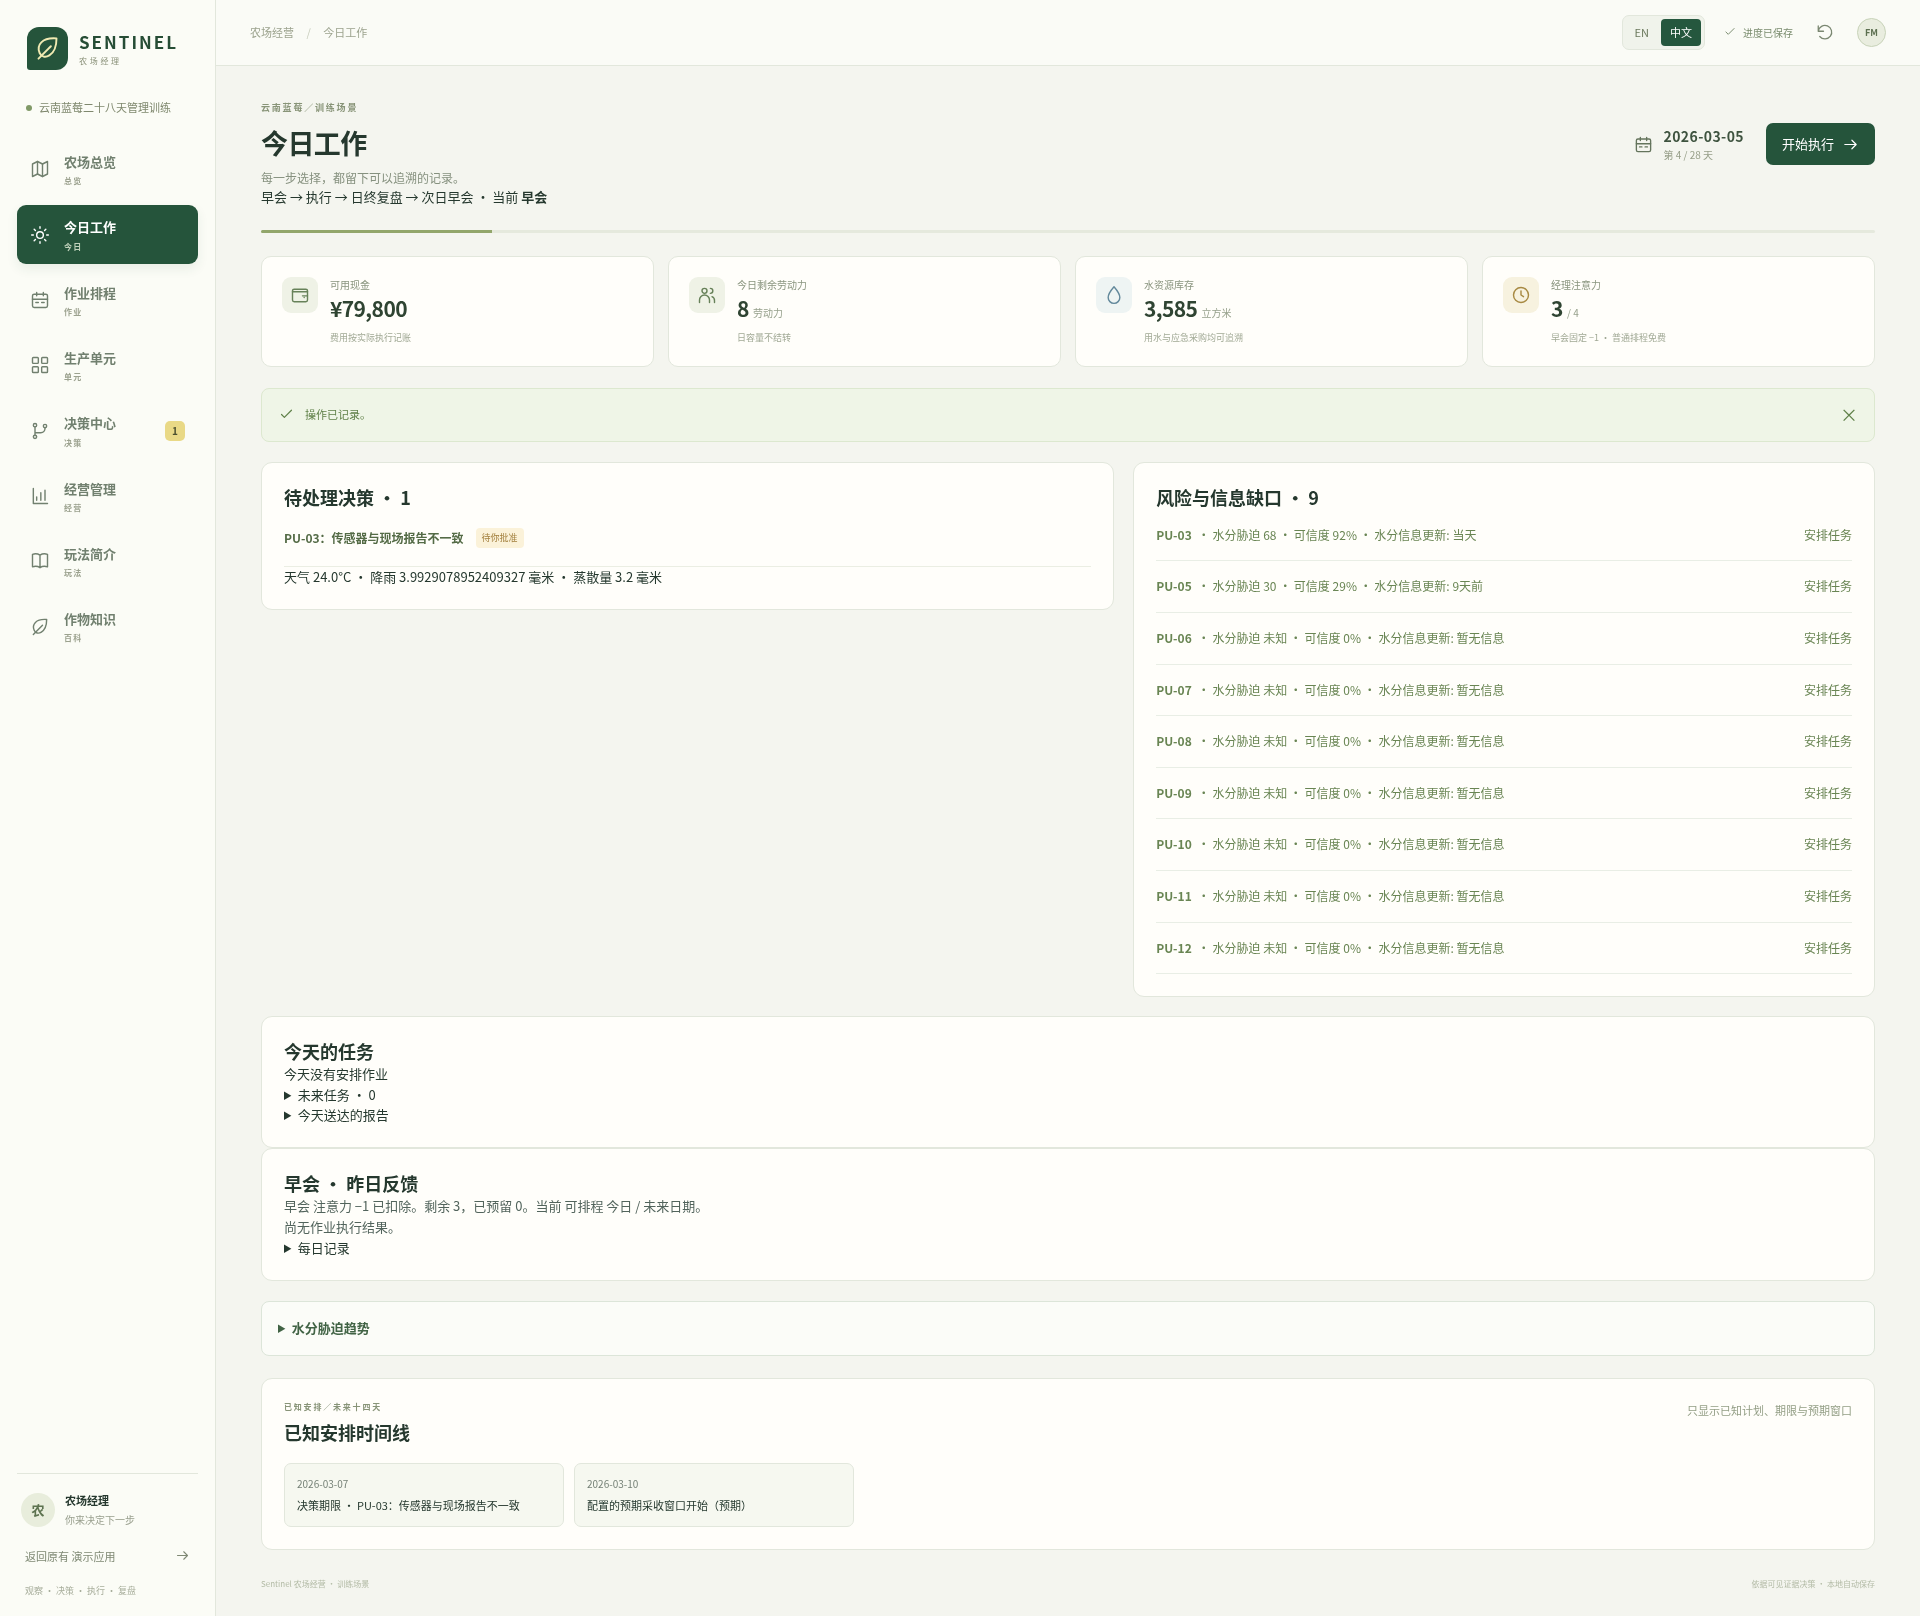
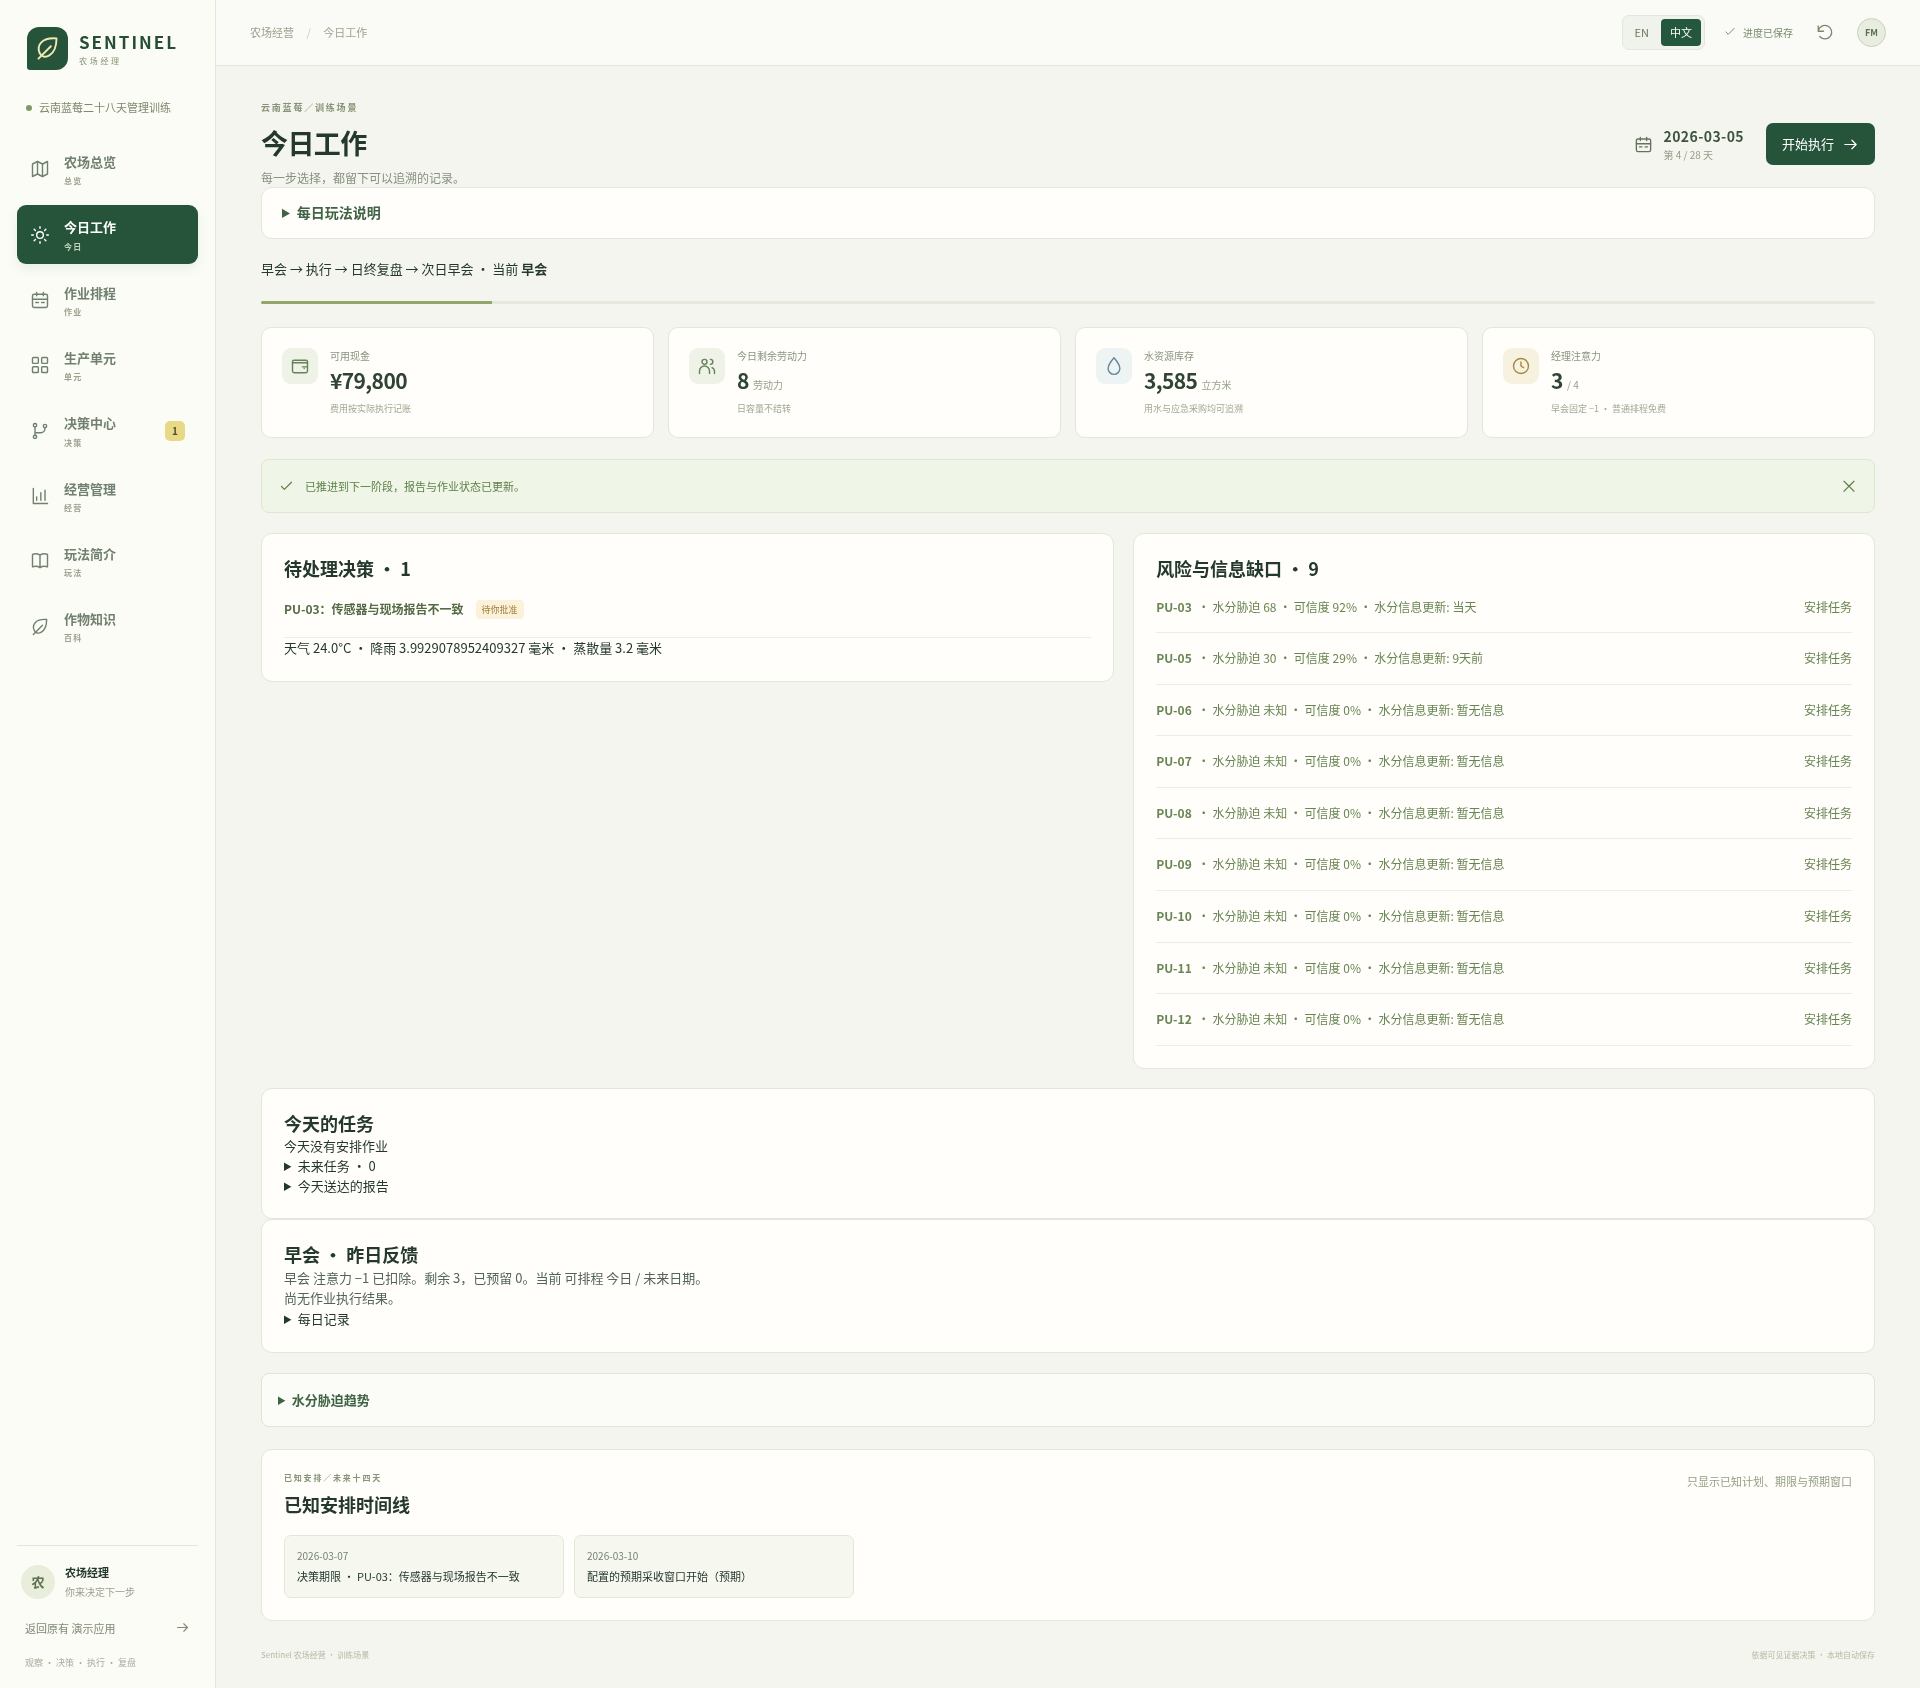
Show a collapsible daily guide only in Today

diff --git a/src/game/GameApp.jsx b/src/game/GameApp.jsx
@@ -352,7 +352,7 @@ function GameContent() {const { t, locale } = useGameLocale();
     </aside>
     <div className="fg-workspace"><header className="fg-topbar"><div className="fg-breadcrumb">{t("农场经营 ")}<span>{t("/")}</span> {t(currentTab.label)}</div><div className="fg-topbar-tools"><LanguageTabs /><span className={`fg-save-status fg-save-status--${storageStatus.state}`} data-testid="save-status" title={t(storageStatus.message)}><Glyph name={storageStatus.state === 'saved' ? 'check' : 'alert'} size={14} />{t(storageStatus.state === 'saved' ? '进度已保存' : storageStatus.state === 'memory' ? '仅本次会话保存' : '存档需要关注')}</span><button className="fg-icon-button" aria-label={t("重新开始")} data-testid="restart-open" onClick={() => setDialog('restart')}><Glyph name="reset" size={18} /></button><span className="fg-topbar-avatar">{t("FM")}</span></div></header>
       <main className="fg-main"><section className="fg-page-heading"><div><span className="fg-eyebrow">{t("YUNNAN BLUEBERRY / TRAINING SCENARIO")}</span><h1>{t(currentTab.label)}<span>{t(tab === 'map' ? '看见农场，做出有依据的选择。' : '每一步选择，都留下可以追溯的记录。')}</span></h1></div><div className="fg-time-control"><div className="fg-date"><Glyph name="calendar" size={19} /><div><strong data-testid="game-date">{t(view.currentDate)}</strong><small>{t("第 ")}{t(model.elapsedDays)}{t(" / ")}{t(model.totalDays)}{t(" 天")}{t(view.ended ? ' · 已结束' : '')}</small></div></div><button className="fg-button fg-button--primary" data-testid="advance-day" disabled={view.ended} onClick={() => run('executeDay')}>{t(view.ended ? '本轮已结束' : { morning: '开始 Execution', execution: '进入 End of Day', end_of_day: 'Next Morning' }[view.management.phase])}<Glyph name="arrow" size={17} /></button></div></section>
-      {t(!view.management.onboarded && <Onboarding run={run} />)}<div className="fg-phase-strip">{t("Morning Meeting → Execution → End of Day → Next Morning · 当前 ")}<b>{t(view.management.phase)}</b></div><div className="fg-season-progress" aria-label={t(`已完成 ${model.elapsedDays} / ${model.totalDays} 天`)}><span style={{ width: `${Math.min(100, model.elapsedDays / model.totalDays * 100)}%` }} /></div>
+      {tab === 'today' && <Onboarding key={`${view.currentDate}:${view.randomSeed}:${view.management.onboarded}`} onboarded={view.management.onboarded} onDismiss={() => controller.dismissOnboarding()} />}<div className="fg-phase-strip">{t("Morning Meeting → Execution → End of Day → Next Morning · 当前 ")}<b>{t(view.management.phase)}</b></div><div className="fg-season-progress" aria-label={t(`已完成 ${model.elapsedDays} / ${model.totalDays} 天`)}><span style={{ width: `${Math.min(100, model.elapsedDays / model.totalDays * 100)}%` }} /></div>
       <section className="fg-hud" aria-label={t("经营资源")}><article><span className="fg-stat-icon"><Glyph name="wallet" /></span><div><span>{t("可用现金")}</span><strong data-testid="cash" data-value={view.finance.cash}>{t(money(view.finance.cash))}</strong><small>{t("费用按实际执行记账")}</small></div></article><article><span className="fg-stat-icon"><Glyph name="people" /></span><div><span>{t("今日剩余 Labor")}</span><strong>{t(number(model.laborAvailable, 2))} <em>{t("Labor")}</em></strong><small>{t("日容量不结转")}</small></div></article><article><span className="fg-stat-icon fg-stat-icon--water"><Glyph name="drop" /></span><div><span>{t(criticalResource?.type === 'water' ? '水资源库存' : criticalResource?.name || '关键资源')}</span><strong data-testid="water-inventory" data-value={criticalResource?.quantity}>{t(number(criticalResource?.quantity, 1))} <em>{t(criticalResource?.unit === 'm3' ? 'm³' : criticalResource?.unit)}</em></strong><small>{t("用水与应急采购均可追溯")}</small></div></article><article><span className="fg-stat-icon fg-stat-icon--attention"><Glyph name="clock" /></span><div><span>{t("经理注意力")}</span><strong data-testid="attention-remaining" data-value={attention.remaining}>{t(number(attention.remaining, 2))} <em>{t("/ ")}{t(number(attention.dailyBudget, 2))}</em></strong><small>{t("早会固定 −1 · 普通排程免费")}</small></div></article></section>
       {t((notice || snapshot.error) && <div className={`fg-feedback fg-feedback--${notice?.type || 'error'}`} data-testid={notice?.type === 'success' ? 'game-status' : 'game-error'} tabIndex={-1} role={notice?.type === 'success' ? 'status' : 'alert'}><Glyph name={notice?.type === 'success' ? 'check' : 'alert'} size={17} /><span>{t(notice?.text || snapshot.error)}</span><button onClick={() => {setNotice(null);controller.clearError();}} aria-label={t("关闭提示")}>{t("×")}</button></div>)}
       {t(storageStatus.state !== 'saved' && storageStatus.message && <div className="fg-storage-warning" role="status">{t(storageStatus.message)}</div>)}

diff --git a/src/game/FeedbackViews.jsx b/src/game/FeedbackViews.jsx
@@ -10,8 +10,15 @@ import { informationAge as freshness } from './informationAge.js';
 import { waterLevel, statusColor } from './feedbackStatus.js';
 function Dot({ level, children }) {const { t } = useGameLocale();return <span className={`fb-status fb-${level}`}><i />{t(children)}</span>;}
 
-export function Onboarding({ run }) {const { t } = useGameLocale();
-  return <section className="fg-panel fb-onboarding" data-testid="onboarding"><span className="fg-eyebrow">{t("PHASE 2 · 试玩反馈更新")}</span><h2>{t("每天一次早会，把观察变成行动")}</h2><p><b>{t("Production Unit")}</b>{t(" 是单独管理作物、供水和设备的生产单元。早上回顾昨日结果，判断风险，安排今天或未来的工作。")}</p><div className="fb-help-grid"><p><b>{t("Labor")}</b>{t(" 是班组当天的工作容量，不能结转；巡查也占用人力，所以无法每天检查所有单元。")}</p><p><b>{t("Manager Attention")}</b>{t(" 是经理亲自判断和现场工作的认知资源。早会固定消耗 1，普通排程免费；复杂判断消耗 1，经理巡查消耗 2。")}</p><p><b>{t("Confidence")}</b>{t(" 表示信息可信度；")}<b>{t("Information Freshness")}</b>{t(" 表示最新有效信息距今几天。传感器可更新水分信息，却不能代替作物与设备巡查。")}</p></div><p className="fb-loop">{t("观察 → 判断风险 → 安排资源 → Execution → End of Day → Next Morning 复盘")}</p><button className="fg-button fg-button--primary" data-testid="onboarding-dismiss" onClick={() => run('dismissOnboarding')}>{t("开始今天的早会")}</button></section>;
+export function Onboarding({ onboarded, onDismiss }) {
+  const { t } = useGameLocale();
+  const [expanded, setExpanded] = useState(!onboarded);
+  const toggle = event => {
+    const open = event.currentTarget.open;
+    setExpanded(open);
+    if (!open && !onboarded) onDismiss();
+  };
+  return <details className="fg-panel fb-onboarding" data-testid="onboarding" open={expanded} onToggle={toggle}><summary data-testid="onboarding-toggle">{t("每日玩法说明")}</summary><div data-testid="onboarding-content"><h2>{t("每天一次早会，把观察变成行动")}</h2><p><b>{t("Production Unit")}</b>{t(" 是单独管理作物、供水和设备的生产单元。早上回顾昨日结果，判断风险，安排今天或未来的工作。")}</p><div className="fb-help-grid"><p><b>{t("Labor")}</b>{t(" 是班组当天的工作容量，不能结转；巡查也占用人力，所以无法每天检查所有单元。")}</p><p><b>{t("Manager Attention")}</b>{t(" 是经理亲自判断和现场工作的认知资源。早会固定消耗 1，普通排程免费；复杂判断消耗 1，经理巡查消耗 2。")}</p><p><b>{t("Confidence")}</b>{t(" 表示信息可信度；")}<b>{t("Information Freshness")}</b>{t(" 表示最新有效信息距今几天。传感器可更新水分信息，却不能代替作物与设备巡查。")}</p></div><p className="fb-loop">{t("观察 → 判断风险 → 安排资源 → Execution → End of Day → Next Morning 复盘")}</p><button className="fg-button fg-button--primary" data-testid="onboarding-dismiss" onClick={() => setExpanded(false)}>{t("收起说明")}</button></div></details>;
 }
 
 export function FarmStatusTable({ units, selectedId, onSelect, selectedIds = [], onToggle }) {const { t } = useGameLocale();

diff --git a/src/game/feedback.css b/src/game/feedback.css
@@ -12,6 +12,10 @@
 .fb-normal { --color:#3d8f65; }.fb-mild { --color:#d0ad2a; }.fb-significant { --color:#e78235; }.fb-severe { --color:#ce4f48; }.fb-unknown { --color:#a8b1ab; }
 .fb-help-grid,.fb-form-grid { display:grid; grid-template-columns:repeat(3,minmax(0,1fr)); gap:14px; }
 .fb-onboarding { margin-bottom:20px; border-left:4px solid #649650; }.fb-onboarding p { font-size:14px; line-height:1.7; }.fb-loop { color:#4c7a39; font-weight:600; }
+.fb-onboarding > summary { color:#416345; font-size:14px; font-weight:600; cursor:pointer; }
+.fb-onboarding[open] > summary { margin-bottom:18px; }
+.fb-onboarding:not([open]) { padding:14px 20px; }
+.fb-onboarding > summary:focus-visible { outline:2px solid #649650; outline-offset:5px; border-radius:3px; }
 .feedback-views fieldset { border:0; margin:0; padding:0; min-width:0; }.feedback-views label { display:grid; gap:6px; font-size:13px; margin:8px 0; }
 .feedback-views select,.feedback-views input:not([type=checkbox]),.fb-duplicate input { border:1px solid #d3dfd1; border-radius:6px; padding:9px; background:white; color:#314637; min-width:0; }
 .fb-actions { display:flex; gap:10px; align-items:center; flex-wrap:wrap; margin:12px 0; }.fb-actions label { display:flex; align-items:center; gap:6px; }

diff --git a/src/game/gameText.js b/src/game/gameText.js
@@ -1,5 +1,6 @@
 /** Presentation-only catalog. Historical facts, IDs and simulation enum values stay unchanged. */
 export const GAME_TEXT = [
+  ['每日玩法说明', 'Daily gameplay guide'], ['收起说明', 'Collapse instructions'],
   ['作物状态', 'Crop condition'], ['设备状态', 'Equipment condition'],
   ['资源消耗', 'Resource consumption'], ['关键结果', 'Key results'], ['执行状态', 'Execution status'],
   ['实际用水', 'Actual water used'], ['作业日期', 'Work date'], ['任务汇总', 'Task summary'],

diff --git a/docs/validation/onboarding-results.md b/docs/validation/onboarding-results.md
@@ -1,0 +1,23 @@
+# 每日玩法说明折叠入口验收
+
+日期：2026-10-14。基线：main `da32ad5689454867dc0eb8e702aae6d5f0c97943`。对应 [流程设计补充](../09_Phase2_Manager_Flow_Design.md)。
+
+| 检查 | 结果 |
+|---|---|
+| 首次引导 | 新游戏在今日工作展开，删除版本小字，按钮为“收起说明” |
+| 页面范围 | 总览、单元、排程、决策、经营管理、玩法简介及作物知识均不显示这张卡 |
+| 折叠与展开 | 收起后保留可点击的一行入口；鼠标、原生键盘操作均通过 |
+| 存档与阅读 | 首次收起仅改变引导标记，完整经营状态保持一致；再次展开、收起与语言切换不改存档 |
+| 切页／刷新／次日 | 都恢复折叠默认值；旧的已看过引导标记可直接沿用 |
+| 同种子重开 | 重开后的首次引导重新展开，经营状态与初始状态一致 |
+| 双语／移动端 | 中英文文字完整，390 像素移动布局无页面横向溢出，无浏览器异常 |
+| `npm test` | 125 项测试通过 |
+| `npm run test:game:locale` | 八个界面、执行报告、存档与原 Demo 共用语言通过 |
+| `npm run test:game:onboarding` | 本次引导显示、交互、持久化及不消耗资源的专项检查通过 |
+| `npm run build:pages`、`npm run test:pages` | 生产构建、静态项目路径、八个游戏界面、真实执行、刷新恢复和旧应用导航通过 |
+| `npm run test:acceptance` | 28 天、112 次作业、56 次推进、29 个历史快照及刷新恢复通过；旧九条路由、六个场景通过，无浏览器异常 |
+| `npm run lint:baseline` | 无新增诊断；保留既有 22 个错误、8 个警告 |
+
+专项原始记录：[onboarding-results.json](onboarding-results.json)。完整今日工作预览：[02-today-zh.png](screenshots/latest/02-today-zh.png)。
+
+本轮沿用原存档版本与键，不重置玩家进度；只调整说明卡显示与交互。

diff --git a/docs/09_Phase2_Manager_Flow_Design.md b/docs/09_Phase2_Manager_Flow_Design.md
@@ -89,3 +89,11 @@ flowchart LR
 ## 2026-10-09 试玩反馈补充
 
 在本流程上新增阶段知识直接定位与共用名称、日终执行结果表格、温度一位小数，并移除待处理决策里的重复资源摘要。后续设计见 [10 阶段知识与日终复盘](10_Phase2_Review_Clarity_Design.md)。
+
+## 2026-10-14 每日玩法说明的折叠入口
+
+“每天一次早会，把观察变成行动”说明卡只在“今日工作”显示，新游戏首次展开。删除“第二阶段 · 试玩反馈更新”版本小字，将原“开始今天的早会”改为“收起说明”，避免将阅读操作误解成启动早会。
+
+收起后保留“每日玩法说明”一行，点击或键盘操作即可展开。首次收起沿用存档的 `management.onboarded` 标记；已看过引导的旧存档也会显示折叠入口。临时展开是页面状态，切页、刷新和次日恢复折叠默认值；同种子重新开始仍恢复首次展开。
+
+说明卡使用原生 `details/summary`，支持鼠标、键盘和移动端。展开与收起不推进时间、不扣资源，也不新增决策或作业记录。首次收起仅更新引导标记，后续阅读不修改存档。验收见 [说明卡折叠检查](validation/onboarding-results.md)。
